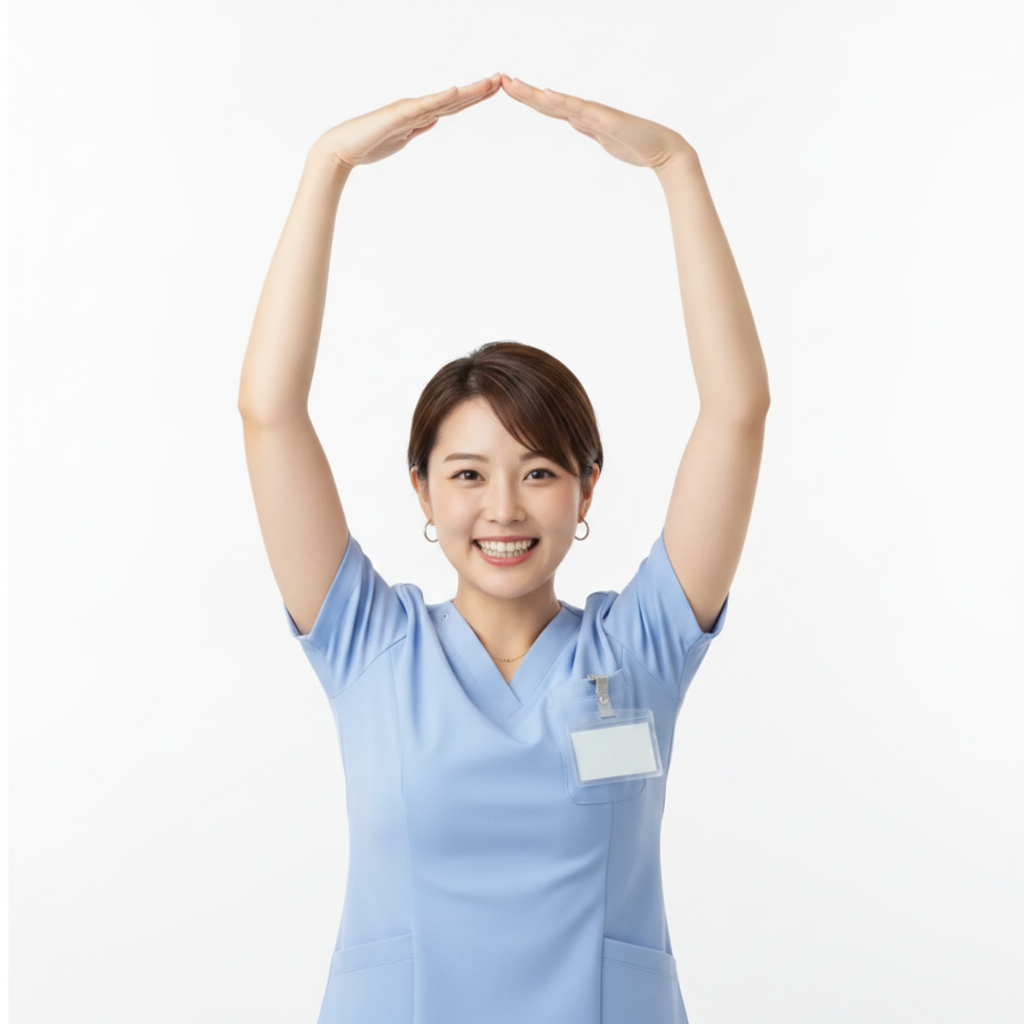
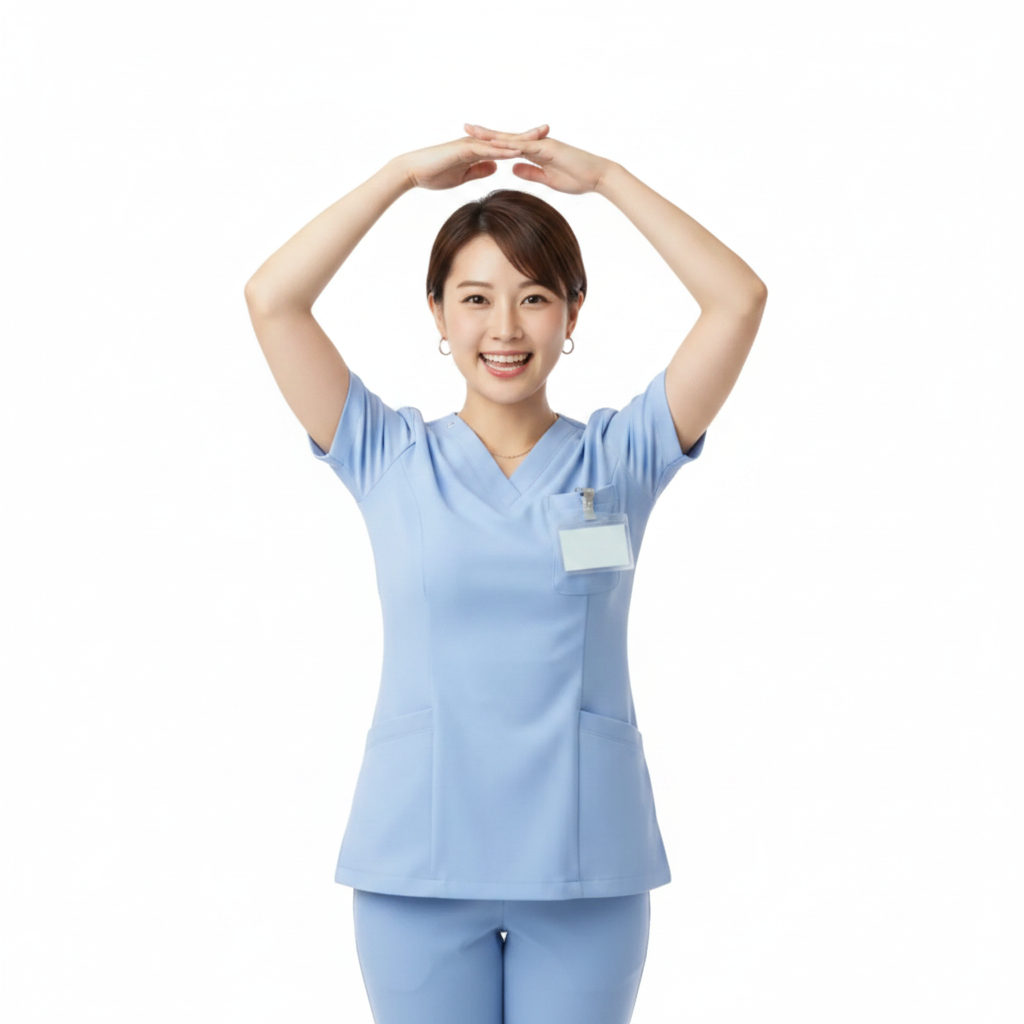
なぎさの○ポーズ: 下絵を渡して腕の長さを直す
⚠言葉での指示は5回試して効かなかった(肘90度/頭半分の高さ/腕を伸ばすな/
胸の前で輪 …いずれも腕が長いまま)。PILで棒人間の下絵(scripts/pose_guide.png)を
描き、人物写真と一緒に2枚目の画像として渡したら一発で直った。

- gen_nagisa_maru_guided.js = 画像2枚渡し(1枚目=人物の正、2枚目=腕の幾何の正)。
  「下絵の絵柄は真似るな、腕の幾何だけ真似ろ」と明記するのが要点。
- 肘を外に張って曲げ、手は頭のすぐ上で合わさる自然な形になった。
- 画像差し替えにつき ?v= を 4 へ。

Changed region(s): [[0.2188, 0.0625, 0.75, 1.0], [0.4375, 0.7188, 0.4688, 0.75]]

diff --git a/scripts/gen_nagisa_maru_guided.js b/scripts/gen_nagisa_maru_guided.js
@@ -1,0 +1,81 @@
+#!/usr/bin/env node
+// なぎさの ○(まる)ポーズを【下絵つき】で生成する。
+// ⚠言葉だけでは腕の長さが直らなかった(肘90度/頭半分の高さ 等を書いても腕が長いまま)ため、
+//   PILで描いた棒人間の下絵(pose_guide.png)を2枚目の画像として渡し、腕の幾何だけを真似させる。
+// 実行: cd /opt/cohub && node scripts/gen_nagisa_maru_guided.js
+require('dotenv').config();
+const fs = require('fs');
+const path = require('path');
+
+const REF_FILE = path.join(__dirname, '..', 'public', 'assets', 'advisor_still.png');   // 人物(顔・服)の正
+const GUIDE_FILE = path.join(__dirname, 'pose_guide.png');                              // ポーズの正
+const OUT_FILE = path.join(__dirname, '..', 'public', 'assets', 'nagisa_maru.png');
+
+const PROMPT = `You are given TWO images.
+
+IMAGE 1 = the PERSON reference: a photorealistic Japanese female health advisor (nurse) in a light blue medical scrub top. Copy her identity from this image: same face, same short dark brown hair, same light blue scrub top with the chest pocket and ID badge.
+
+IMAGE 2 = the POSE GUIDE: a simple stick-figure diagram. Copy the GEOMETRY OF THE ARMS from this diagram EXACTLY:
+- The elbows are pushed OUT to the sides, roughly at the same height as her eyes, and clearly BENT.
+- The forearms come back INWARD and UPWARD so both hands meet and TOUCH just above the top of her head.
+- The gap between the top of her head and her touching hands is SMALL — about half the height of her head. The hands must NOT be far above her head.
+- The upper arm and the forearm are the SAME SHORT LENGTH as in the diagram. Do NOT lengthen them.
+- Together, her two arms and her head fill one rounded "maru" (○) shape — the Japanese sign for "correct / good".
+
+Generate ONE photorealistic image of the woman from IMAGE 1 performing the pose from IMAGE 2.
+
+EXPRESSION: bright, happy, beaming smile, looking straight at the viewer, as if congratulating ("よくできました!").
+
+FRAMING: waist-up, centred, whole ring and both elbows fully inside the frame with a little padding.
+
+BACKGROUND: pure solid white (#FFFFFF), no props, no floor.
+
+CRITICAL:
+- Photorealistic photography, NOT anime, NOT illustration, NOT a drawing. Do NOT copy the stick-figure look — the diagram is ONLY for the arm geometry.
+- Natural human proportions. Arms must look SHORT and compact, never stretched.
+- NO text, NO logos, NO other people.`;
+
+(async () => {
+  const apiKey = process.env.GEMINI_API_KEY;
+  if (!apiKey) { console.error('GEMINI_API_KEY not set'); process.exit(1); }
+  for (const f of [REF_FILE, GUIDE_FILE]) {
+    if (!fs.existsSync(f)) { console.error('not found:', f); process.exit(1); }
+  }
+  if (fs.existsSync(OUT_FILE)) {
+    const ts = new Date().toISOString().replace(/[:.]/g, '-').slice(0, 19);
+    fs.copyFileSync(OUT_FILE, OUT_FILE + '.bak.' + ts);
+    console.log('backup:', OUT_FILE + '.bak.' + ts);
+  }
+  const body = {
+    contents: [{
+      parts: [
+        { text: PROMPT },
+        { inlineData: { mimeType: 'image/png', data: fs.readFileSync(REF_FILE).toString('base64') } },
+        { inlineData: { mimeType: 'image/png', data: fs.readFileSync(GUIDE_FILE).toString('base64') } },
+      ],
+    }],
+    generationConfig: {
+      responseModalities: ['IMAGE', 'TEXT'],
+      temperature: 0.3,
+      imageConfig: { aspectRatio: '1:1' },
+    },
+  };
+  const r = await fetch('https://generativelanguage.googleapis.com/v1beta/models/gemini-2.5-flash-image:generateContent?key=' + apiKey, {
+    method: 'POST', headers: { 'Content-Type': 'application/json' }, body: JSON.stringify(body),
+  });
+  if (!r.ok) { console.error('HTTP', r.status, (await r.text()).slice(0, 600)); process.exit(1); }
+  const d = await r.json();
+  const parts = d.candidates && d.candidates[0] && d.candidates[0].content && d.candidates[0].content.parts;
+  if (!parts) { console.error('no parts'); process.exit(1); }
+  for (const p of parts) {
+    const inline = p.inlineData || p.inline_data;
+    if (inline && inline.data) {
+      const buf = Buffer.from(inline.data, 'base64');
+      fs.writeFileSync(OUT_FILE, buf);
+      console.log('saved', OUT_FILE, buf.length, 'bytes');
+      return;
+    }
+  }
+  console.error('no image returned');
+  process.exit(1);
+})();

diff --git a/scripts/gen_nagisa_maru.js b/scripts/gen_nagisa_maru.js
@@ -13,21 +13,18 @@ const PROMPT = `You are given a photorealistic reference image of a Japanese fem
 
 Generate a NEW image of the SAME WOMAN — same face, same hairstyle (short dark brown bob), same light blue scrub top with the small chest pocket and ID badge — with this change:
 
-POSE (CRITICAL — follow exactly): Both arms are raised above her head and CURVED so that the TWO HANDS MEET AND TOUCH at the very top of the arc. The fingertips (or palms) of the left hand physically TOUCH the fingertips of the right hand. Her two arms plus her hands form ONE BIG ROUND CLOSED RING (the letter O) above her head — the classic Japanese "maru" (○ = correct / good) gesture, the same shape a gymnast or a quiz-show contestant makes for "correct answer".
-- The two arms must draw a WIDE ROUND ARCH like a RAINBOW or a big balloon. Elbows are pushed far OUT to the sides (wider than her shoulders) and clearly BENT, and the wrists are bent so the hands curve inward to meet at the top center.
-- The enclosed empty space inside the ring should be a wide ROUND oval, clearly wider than her head.
-- The ring must be CLOSED: there must be NO GAP between the two hands.
-- ABSOLUTELY NOT a triangle or roof shape with straight arms. NOT two separate raised hands. NOT two small "OK" finger rings. NOT a heart shape. NOT a peace sign. NOT straight arms in a V shape.
+POSE (CRITICAL — follow exactly): The Japanese TV "tomodachi no wa" (友達の輪) gesture, made IN FRONT OF HER CHEST — NOT above her head.
+- Both arms are held IN FRONT of her body at chest height, elbows bent and kept CLOSE TO HER SIDES, forearms curving inward.
+- The fingertips of both hands TOUCH each other, so the two arms form ONE ROUND CLOSED RING (a big letter O) in front of her chest.
+- The ring is centred in front of her chest, roughly the width of her shoulders. Her smiling face is clearly visible ABOVE the ring — the ring must NOT cover her face.
+- Because the arms are bent and held in front, only a SHORT length of arm is visible. This is important: the arms must look naturally short and compact, never long or stretched.
+- ABSOLUTELY NOT arms raised above the head. NOT straight arms. NOT a heart shape. NOT a peace sign. NOT two separate "OK" finger rings.
 
 EXPRESSION: bright, happy, beaming smile with eyes slightly narrowed in a genuine smile, looking straight at the viewer. Cheerful and congratulating, as if saying "よくできました!".
 
-BODY PROPORTIONS (CRITICAL): Natural, correct, realistic human proportions. Her upper arms and forearms must be NORMAL LENGTH — do NOT stretch or elongate the arms.
-- Elbows are BENT to roughly 90 degrees, so the ring sits LOW and CLOSE to her head, resting just above her hair.
-- The gap between the top of her head and her touching hands must be only about HALF a head height. The hands must NOT float high above her.
-- The arms hug close around her head, making a small compact round ring — like a person making "maru" right on top of their head.
-- No distortion, no extra-long limbs, no thin stretched forearms.
+BODY PROPORTIONS (CRITICAL): Natural, correct, realistic human proportions. Normal arm length for her body — no stretched or elongated limbs, no thin distorted forearms.
 
-FRAMING: TIGHT BUST-UP composition — visible from the middle of the chest upward only (chest, shoulders, neck, head) plus the raised arms. Her head should be large in the frame. The closed ring made by her arms must be fully inside the frame — DO NOT crop the hands. Leave only about 5% padding above her hands.
+FRAMING: WAIST-UP composition — visible from the waist upward, centred. Her head and the ring in front of her chest are both fully inside the frame with a little padding all around. DO NOT crop her hands or elbows.
 
 BACKGROUND: pure solid white (#FFFFFF), no props, no floor, no shadow other than a very soft one behind her.
 

diff --git a/public/tablet-home.html b/public/tablet-home.html
@@ -2683,7 +2683,7 @@ function plazaTile(p,i){
      ⚠良い時だけ。他のランクには何も出さない(全部に出すと合図にならない)。
      ⚠置き場所は**コメント枠の右**(社長指示で写真の上から移動)。料理写真を隠さない。 */
   var stamp = (isMeal && rank==='good')
-    ? '<img class="goodstamp" src="/assets/nagisa_good.png?v=3" alt="よい一皿です" loading="lazy">' : '';
+    ? '<img class="goodstamp" src="/assets/nagisa_good.png?v=4" alt="よい一皿です" loading="lazy">' : '';
   var thumb = p.image_url
     ? '<div class="tthumbwrap"><div class="tthumb"><img src="'+esc(p.image_url)+'" loading="lazy"></div>'+(p.meal_type?'<span class="meal">'+mealLabel(p.meal_type)+'</span>':'')+'</div>'
     : '<div class="tthumb soc-txt">🎭</div>';
